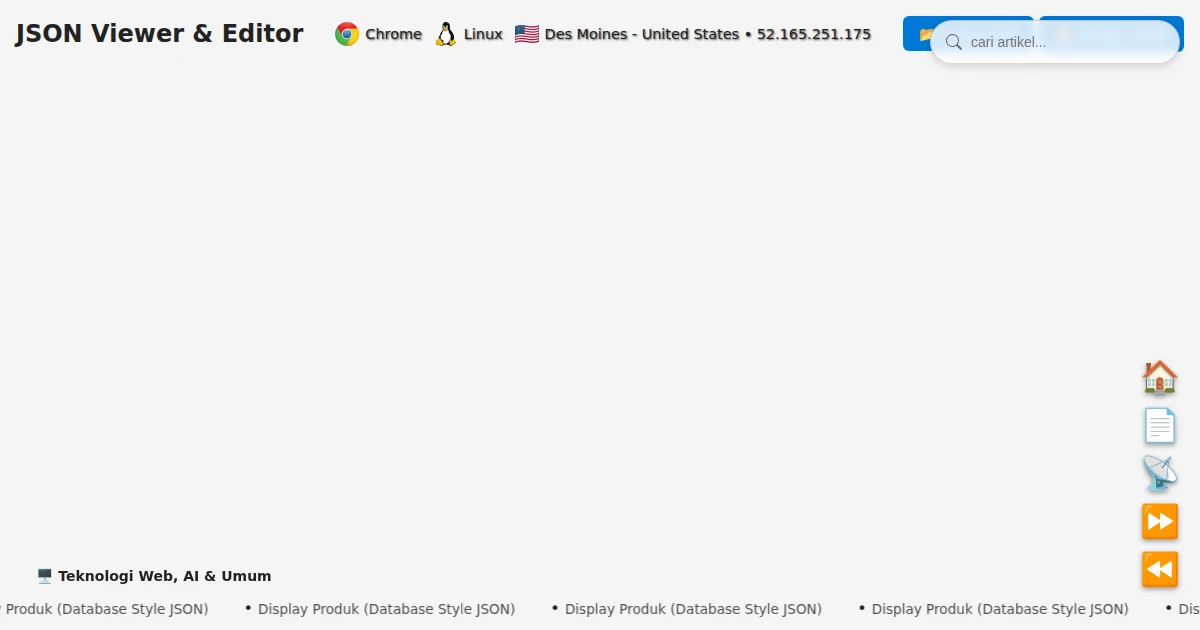
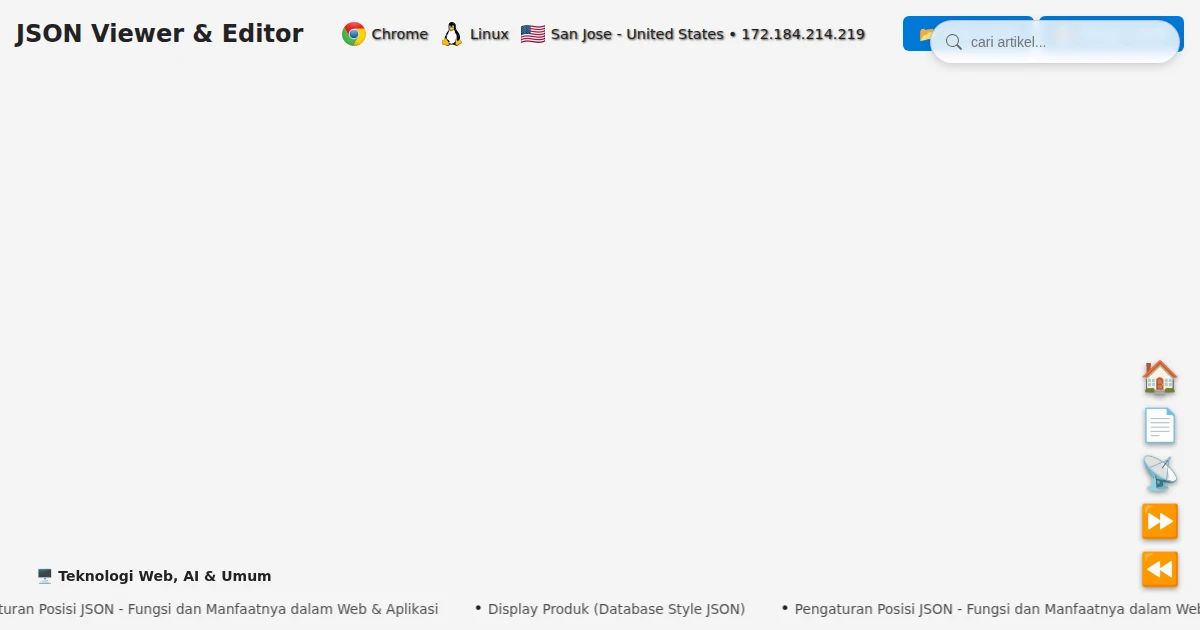
deploy: 37e7264e4f45c4364fc873f4747aad42bf5be342

Changed region(s): [[0.0, 0.9349, 1.0, 0.9952], [0.2775, 0.0302, 0.74, 0.0905]]

diff --git a/artikel/pengaturan-posisi-json.html b/artikel/pengaturan-posisi-json.html
@@ -1,0 +1,156 @@
+<!doctype html>
+<html lang="id">
+  <head>
+  <meta charset="UTF-8" />
+  <meta name="viewport" content="width=device-width, initial-scale=1" />
+  <title>Pengaturan Posisi JSON - Fungsi dan Manfaatnya dalam Web & Aplikasi</title>
+  <link rel="canonical" href="https://frijal.pages.dev/artikel/pengaturan-posisi-json.html" />
+  <link rel="icon" href="https://frijal.pages.dev/favicon.ico" type="image/x-icon" />
+  <meta name="description" content="Fungsi .json adalah untuk menyimpan dan mengirimkan data dalam format JSON (JavaScript Object Notation). JSON adalah format data ringan yang mudah dibaca dan ditulis oleh manusia, serta mudah diurai dan dihasilkan oleh mesin. Format ini sering digunakan dalam pengembangan web dan aplikasi untuk pertukaran data antara server dan klien." />
+  <meta name="keywords" content="JSON, data, JavaScript Object Notation, web, aplikasi, pertukaran data, server, klien, pengaturan posisi JSON" />
+  <meta name="author" content="Frijal" />
+  <meta property="og:type" content="article" />
+  <meta property="og:url" content="https://frijal.pages.dev/artikel/pengaturan-posisi-json.html" />
+  <meta property="og:title" content="Pengaturan Posisi JSON - Fungsi dan Manfaatnya dalam Web & Aplikasi" />
+  <meta property="og:description" content="Fungsi .json adalah untuk menyimpan dan mengirimkan data dalam format JSON. JSON adalah format data ringan yang sering digunakan dalam pengembangan web dan aplikasi untuk pertukaran data antara server dan klien." />
+  <meta property="og:image" content="https://frijal.pages.dev/img/pengaturan-posisi-json.webp" />
+  <meta name="twitter:card" content="summary_large_image" />
+  <meta name="twitter:title" content="Pengaturan Posisi JSON - Fungsi dan Manfaatnya dalam Web & Aplikasi" />
+  <meta name="twitter:description" content="Fungsi .json adalah untuk menyimpan dan mengirimkan data dalam format JSON. JSON adalah format data ringan yang sering digunakan dalam pengembangan web dan aplikasi untuk pertukaran data antara server dan klien." />
+  <meta name="twitter:image" content="https://frijal.pages.dev/img/pengaturan-posisi-json.webp" />
+  <meta name="twitter:site" content="@frijal" />
+    <style>
+      body {
+        font-family: sans-serif;
+        margin: 0;
+        padding: 20px;
+        background: #f5f5f5;
+      }
+      h1 {
+        text-align: center;
+        margin-bottom: 10px;
+      }
+      #categories {
+        display: flex;
+        gap: 20px;
+      }
+      .column {
+        flex: 1;
+        display: flex;
+        flex-direction: column;
+        gap: 20px;
+      }
+      .category {
+        background: white;
+        border-radius: 8px;
+        padding: 10px;
+        box-shadow: 0 2px 6px rgba(0, 0, 0, 0.1);
+      }
+      .category h3 {
+        margin: 0 0 10px;
+        font-size: 1.1em;
+        background: #eee;
+        padding: 5px;
+        border-radius: 4px;
+      }
+      .item-list {
+        display: flex;
+        flex-direction: column;
+        gap: 6px;
+        min-height: 50px;
+        border: 1px dashed #ccc;
+        padding: 6px;
+        border-radius: 4px;
+      }
+      .item {
+        display: flex;
+        align-items: center;
+        gap: 8px;
+        background: #fafafa;
+        border: 1px solid #ddd;
+        padding: 4px 6px;
+        border-radius: 4px;
+        cursor: grab;
+      }
+      .item img {
+        width: 40px;
+        height: 40px;
+        object-fit: cover;
+        border-radius: 4px;
+      }
+      #downloadBtn {
+        display: block;
+        margin: 20px auto;
+        padding: 10px 20px;
+        font-size: 16px;
+        background: #2196f3;
+        color: white;
+        border: none;
+        border-radius: 6px;
+        cursor: pointer;
+      }
+      #downloadBtn:hover {
+        background: #1976d2;
+      }
+      /* Context Menu */
+      #contextMenu {
+        font-family: sans-serif;
+        font-size: 14px;
+        min-width: 180px;
+        background: #fff;
+        border: 1px solid #ccc;
+        border-radius: 6px;
+        box-shadow: 0 2px 8px rgba(0, 0, 0, 0.2);
+        overflow: hidden;
+        position: absolute;
+        display: none;
+        z-index: 1000;
+      }
+      #contextMenu div {
+        padding: 8px 12px;
+        cursor: pointer;
+        white-space: nowrap;
+      }
+      #contextMenu div:hover {
+        background: #f0f0f0;
+      }
+      /* Search bar */
+      #searchContainer {
+        text-align: center;
+        margin-bottom: 10px;
+      }
+      #searchContainer input {
+        padding: 6px 10px;
+        width: 300px;
+        font-size: 14px;
+        border-radius: 4px;
+        border: 1px solid #ccc;
+      }
+      #searchContainer button {
+        margin-left: 5px;
+        padding: 6px 10px;
+        font-size: 14px;
+        cursor: pointer;
+      }
+      mark {
+        background: yellow;
+      }
+    </style>
+  <meta property="og:image:alt" content="Pengaturan Posisi JSON - Fungsi dan Manfaatnya dalam Web & Aplikasi">
+  <meta itemprop="image" content="https://frijal.pages.dev/img/pengaturan-posisi-json.webp">
+<link rel="stylesheet" href="/ext/marquee-url.css"><link rel="alternate" type="application/rss+xml" title="30 artikel baru bikin." href="https://frijal.pages.dev/rss.xml" />
+    <meta property="article:published_time" content="2025-10-25T05:51:04.761+00:00">
+</head>
+  <body>
+    <h1>📂 Dashboard Artikel</h1>
+<div id="iposbrowser"></div>
+    <div id="searchContainer"></div>
+    <div id="categories"></div>
+    <button id="downloadBtn">💾 Download artikel.json</button>
+    <!-- Panggil JS -->
+    <script type="module" src="/ext/dashboard.js"></script>
+<div class="search-floating-container"><input type="text" id="floatingSearchInput" placeholder="cari artikel..." autocomplete="off"><span id="floatingSearchClear" class="clear-button"></span><div id="floatingSearchResults" class="floating-results-container"></div></div>
+<section id="related-marquee-section"><div id="related-marquee-container"></div></section><script defer src="/ext/marquee-url.js"></script>
+<script defer src="/ext/iposbrowser.js"></script><script defer src="/ext/markdown.js"></script>
+  </body>
+</html>
